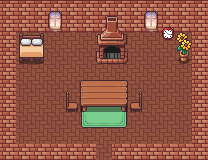
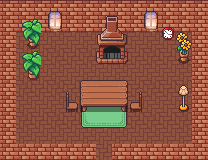
Differentiate interior rooms so they stop reading as one room (R4-14)
The review's loudest "generated, not authored" tell was interior sameness:
{cottage, home_e1, home_j1} were one bed-centric bedroom at three sizes, and
home_g2 carried the same bookshelf + grand-clock kit as the library — so
entering it pre-spoiled the library, the story's destination.

Re-theme three rooms (bake_interior.py INTERIORS specs; sizes unchanged, so no
registry/runtime edits):
- home_g2 -> a fireside parlor. Drop the bookshelves + grand clock (that kit now
  lives ONLY in the library); blue-tile floor, two windows. Kills the pre-spoil.
- home_e1 -> a family living/dining room. Remove the bed so the three houses
  stop being interchangeable bedrooms (bed count 4->3).
- home_j1 -> a small spare bedroom with the unused wood wall style + a storage
  crate, giving it its own character vs the cottage's hearth bedroom.

Regenerated maps + ground PNGs via the deterministic baker (re-bake is
byte-identical; only these 3 rooms changed). Verified headless: check_symbols,
check_levels (interiors still doored), gdformat --check, gdlint all green.
Renders reviewed. Behavior (walking the rooms) still owed on the native build.

Claude-Session: https://claude.ai/code/session_013Zs4bJfE7CpRqAcuBRrWLL

Changed region(s): [[0.0865, 0.125, 0.2308, 0.5], [0.8365, 0.5312, 0.9231, 0.7188]]

diff --git a/tools/bake_interior.py b/tools/bake_interior.py
@@ -149,37 +149,45 @@ INTERIORS = {
             ("lamp_teal", 1, 6),
         ],
     },
-    # G @ (38,36) — the study.
+    # G @ (38,36) — the fireside parlor. Deliberately shelf-free: the big
+    # bookshelf + grand-clock kit lives ONLY in the library now, so entering this
+    # house no longer pre-spoils the library reveal (R4-14).
     "home_g2": {
         "size": (13, 10),
         "wall": "plaster",
-        "floor": "parquet",
-        "windows": [6],
+        "floor": "tile_blue",
+        "windows": [3, 9],
         "furniture": [
-            ("bookshelf_big", 2, 3),
-            ("bookshelf_small", 4, 3),
-            ("bookshelf_big", 9, 3),
-            ("clock_grand", 11, 3),
-            ("rug_green", 5, 7),
-            ("table_dark", 5, 6),
-            ("chair_left", 8, 6),
+            ("rug_teal", 5, 7),
+            ("fireplace", 2, 3),
+            ("plant_leafy", 5, 3),
+            ("plant_blue", 7, 3),
+            ("table_dark", 8, 5),
+            ("chair_right", 7, 5),
+            ("chair_left", 11, 5),
             ("lamp_gold", 1, 6),
+            ("clock_wall", 6, 1),
         ],
     },
-    # J @ (14,35) — the small bedroom. Rug now clear of the bed (round-3 fix).
+    # J @ (14,35) — a small spare bedroom. Wood walls + a storage crate give it
+    # its own character so it reads as a different household than the cottage's
+    # hearth bedroom (R4-14). Rug clear of the bed (round-3 fix).
     "home_j1": {
         "size": (9, 8),
-        "wall": "plaster",
-        "floor": "wood_dark",
+        "wall": "wood",
+        "floor": "wood_mix",
         "windows": [4],
         "furniture": [
             ("bed", 1, 3),
-            ("rug_teal", 4, 6),
-            ("plant_leafy", 6, 3),
-            ("lamp_cream", 7, 5),
+            ("crate", 7, 3),
+            ("plant_sunflower", 6, 3),
+            ("rug_teal", 3, 6),
+            ("lamp_teal", 7, 5),
         ],
     },
-    # E @ (33,20) — the big family room.
+    # E @ (33,20) — the family living/dining room. No bed (it's a common room,
+    # not a fourth bedroom) so the three bed-centric houses stop reading as one
+    # room at three sizes (R4-14).
     "home_e1": {
         "size": (13, 10),
         "wall": "brick",
@@ -187,9 +195,10 @@ INTERIORS = {
         "windows": [3, 9],
         "furniture": [
             ("fireplace", 6, 3),
-            ("bed", 1, 3),
+            ("plant_big", 1, 4),
             ("clock_wall", 10, 1),
             ("plant_sunflower", 11, 3),
+            ("lamp_cream", 11, 6),
             ("rug_green", 5, 7),
             ("table_dark", 5, 6),
             ("chair_right", 4, 6),